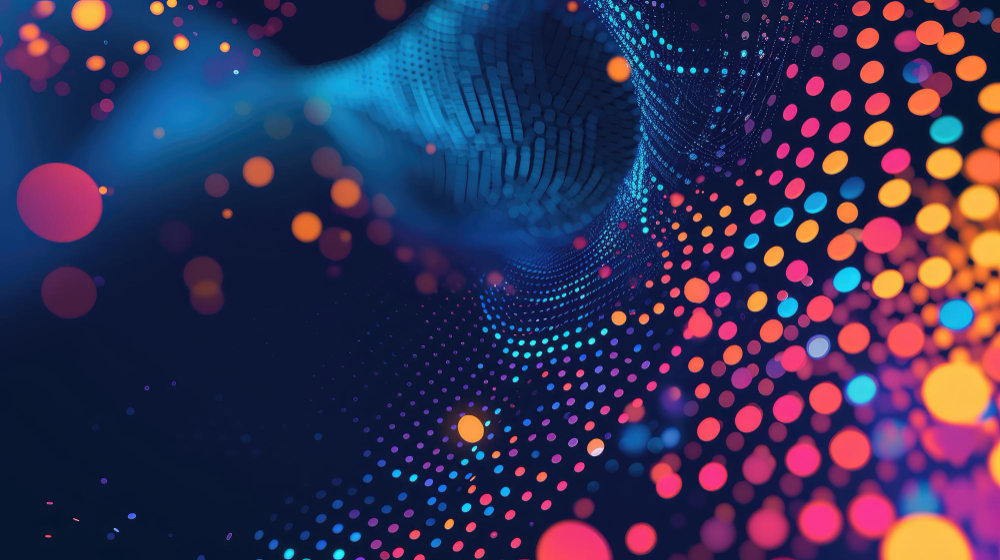
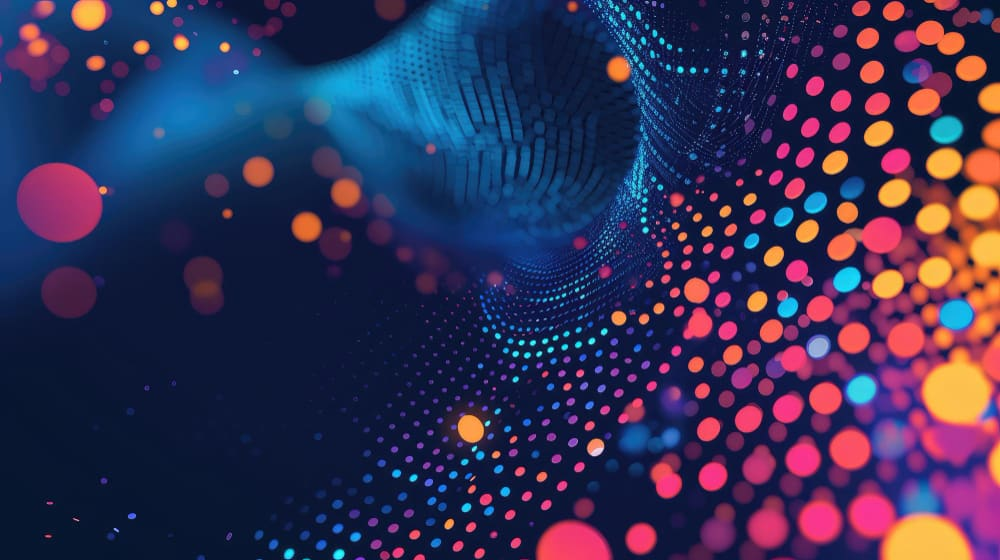
/services: hero background image + stylized brand overlay
The hero was a flat navy block; now it carries the uploaded
services-hero-bg.jpg with a three-layer brand overlay so the
headline, tagline, and stat tiles stay crisp while the background
adds depth.

Optimisation: sharp mozjpeg q78, progressive. 465 KB -> 71 KB (-85%).
next/image handles format negotiation + responsive sizes on delivery;
priority={true} so this stays LCP-friendly.

Overlay stack, ordered back-to-front:
  1. aci-secondary at 85% opacity (dark navy scrim for text contrast)
  2. aci-primary -> transparent -> aci-secondary diagonal (brand wash)
  3. top-to-bottom aci-secondary fade (anchors the stat tiles)

Stat tiles updated to bg-gray-900/70 with a soft border and
backdrop-blur so they sit cleanly on the image without feeling
flat. Tagline text lifted from gray-400 to gray-300 for readability
on the new backdrop.

diff --git a/aci-infotech/src/app/services/page.tsx b/aci-infotech/src/app/services/page.tsx
@@ -132,8 +132,33 @@ export default function ServicesPage() {
       />
 
       {/* Hero Section */}
-      <section className="bg-[var(--aci-secondary)] pt-32 pb-20">
-        <div className="max-w-7xl mx-auto px-4 sm:px-6 lg:px-8">
+      <section className="relative pt-32 pb-20 overflow-hidden bg-[var(--aci-secondary)]">
+        <Image
+          src="/images/services-hero-bg.jpg"
+          alt=""
+          fill
+          sizes="100vw"
+          priority
+          className="object-cover object-center"
+        />
+        {/* Stylized brand overlay:
+            1) Dark navy scrim for headline contrast.
+            2) Diagonal aci-primary wash for brand accent.
+            3) Bottom-to-top fade so the stat tiles anchor on solid dark. */}
+        <div
+          aria-hidden
+          className="absolute inset-0 bg-[color:var(--aci-secondary)]/85"
+        />
+        <div
+          aria-hidden
+          className="absolute inset-0 bg-gradient-to-br from-[color:var(--aci-primary)]/35 via-transparent to-[color:var(--aci-secondary)]/70"
+        />
+        <div
+          aria-hidden
+          className="absolute inset-0 bg-gradient-to-b from-[color:var(--aci-secondary)]/30 via-transparent to-[color:var(--aci-secondary)]/85"
+        />
+
+        <div className="relative max-w-7xl mx-auto px-4 sm:px-6 lg:px-8">
           <div className="text-center max-w-4xl mx-auto">
             <p className="text-[var(--aci-primary-light)] font-medium mb-4 tracking-wide uppercase">
               Our Services
@@ -142,7 +167,7 @@ export default function ServicesPage() {
               Enterprise Technology Services That
               <span className="text-[var(--aci-primary-light)]"> Actually Deliver</span>
             </h1>
-            <p className="text-xl text-gray-400 mb-8">
+            <p className="text-xl text-gray-300 mb-8">
               Six practice areas. One engineering standard. Every engagement staffed with senior architects
               who've shipped production systems at Fortune 500 scale.
             </p>
@@ -150,17 +175,17 @@ export default function ServicesPage() {
 
           {/* Value Props */}
           <div className="grid md:grid-cols-3 gap-6 mt-12">
-            <div className="bg-gray-800 rounded-xl p-6 text-center">
+            <div className="bg-gray-900/70 backdrop-blur-sm border border-white/10 rounded-xl p-6 text-center">
               <div className="text-4xl font-bold text-white mb-2">80+</div>
-              <div className="text-gray-400">Enterprise Clients</div>
+              <div className="text-gray-300">Enterprise Clients</div>
             </div>
-            <div className="bg-gray-800 rounded-xl p-6 text-center">
+            <div className="bg-gray-900/70 backdrop-blur-sm border border-white/10 rounded-xl p-6 text-center">
               <div className="text-4xl font-bold text-white mb-2">$500M+</div>
-              <div className="text-gray-400">Client Value Delivered</div>
+              <div className="text-gray-300">Client Value Delivered</div>
             </div>
-            <div className="bg-gray-800 rounded-xl p-6 text-center">
+            <div className="bg-gray-900/70 backdrop-blur-sm border border-white/10 rounded-xl p-6 text-center">
               <div className="text-4xl font-bold text-white mb-2">98%</div>
-              <div className="text-gray-400">Client Retention Rate</div>
+              <div className="text-gray-300">Client Retention Rate</div>
             </div>
           </div>
         </div>
